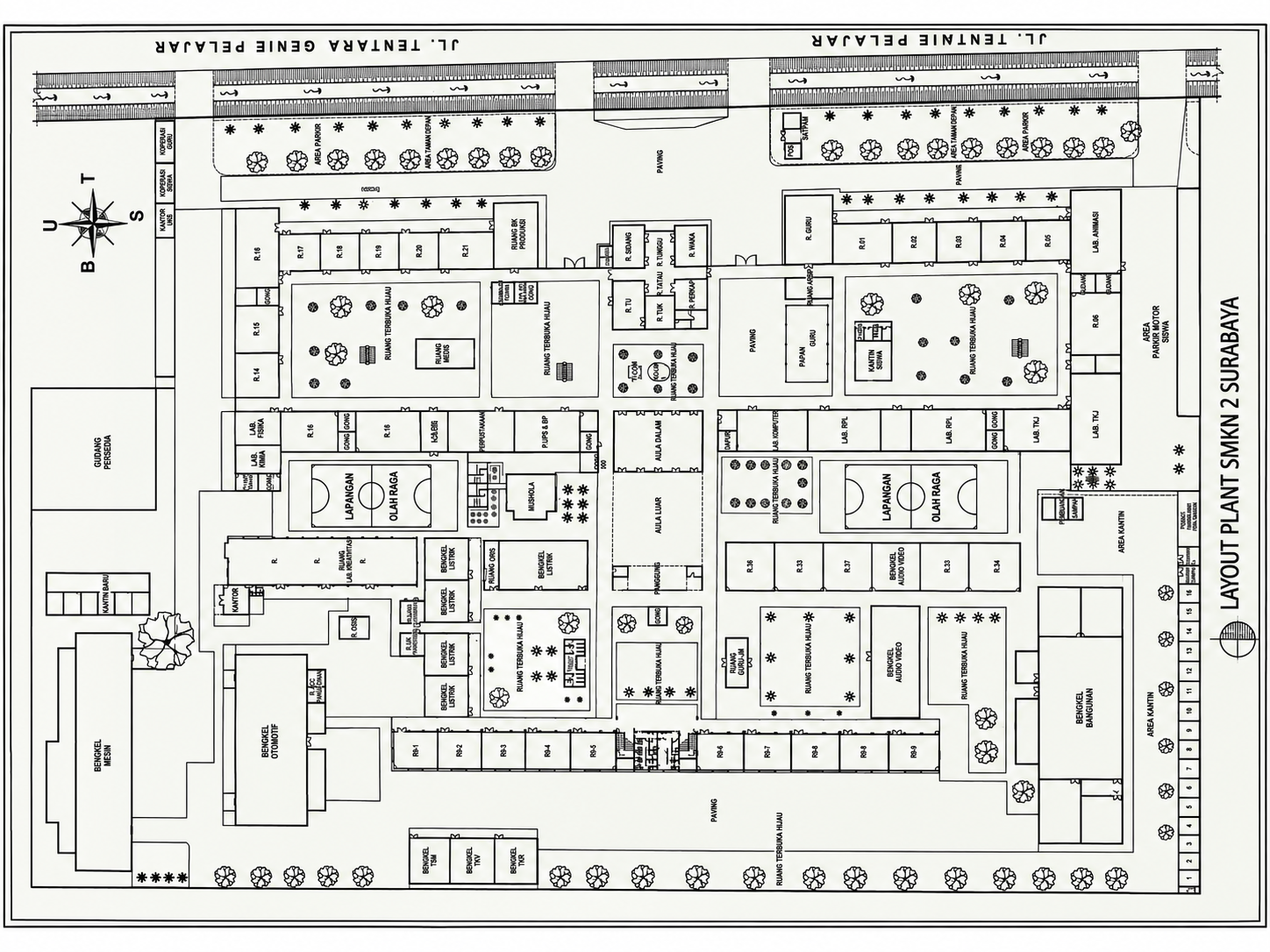
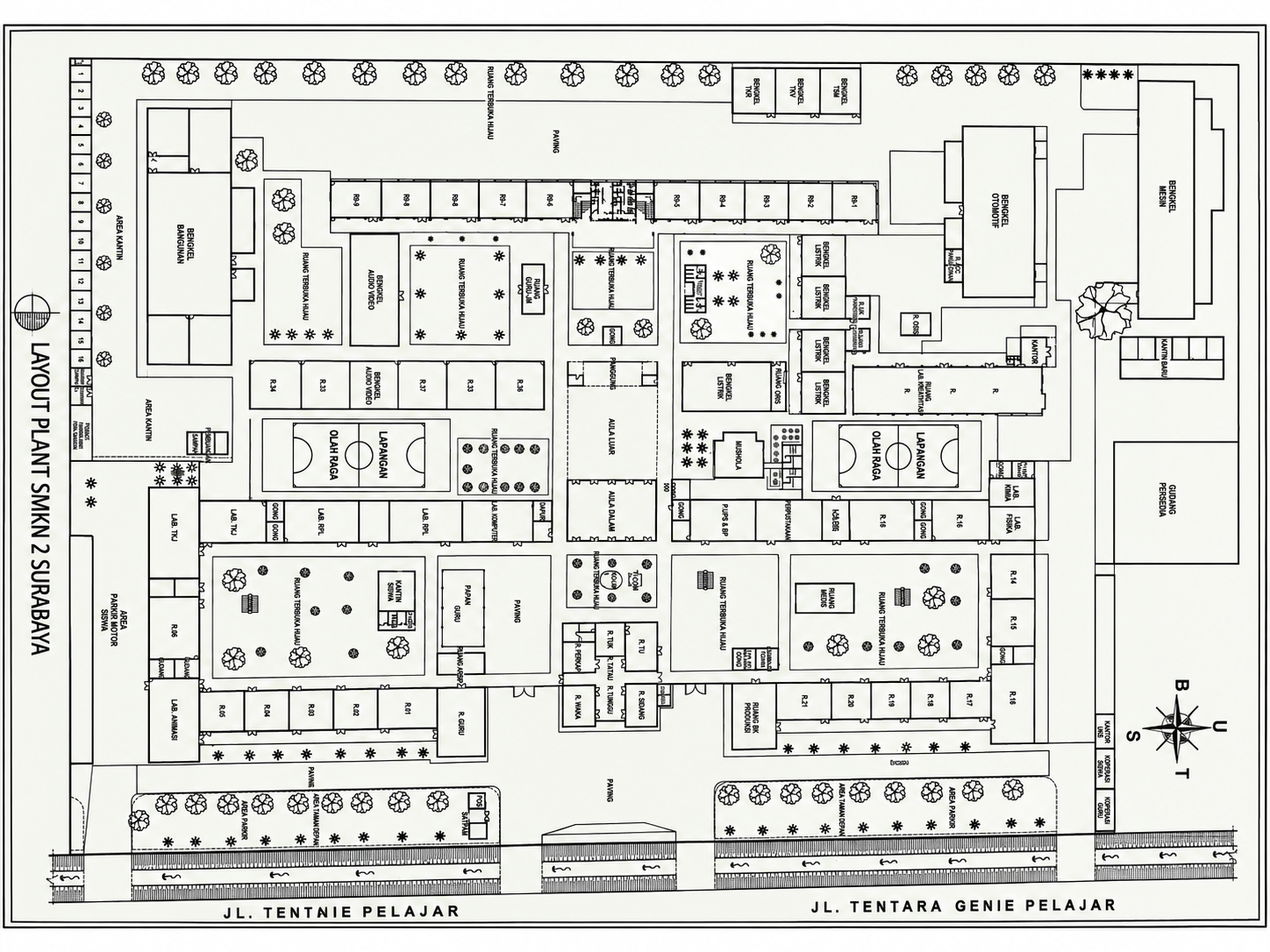
fix(map): rotate blueprint 90 deg clockwise so front gate and Jl Tentara Genie are at the bottom

diff --git a/src/data/campus-map.ts b/src/data/campus-map.ts
@@ -29,125 +29,125 @@ const room = (id: string, name: string, category: Category, x: number, z: number
   note,
 });
 
-// Koordinat piksel denah landscape 1448 x 1086 px (diputar horizontal agar tulisan terbaca tegak alami).
+// Koordinat piksel denah landscape 1448 x 1086 px (diputar 90 derajat searah jarum jam agar jalan utama Jl. Tentara Genie Pelajar berada di bawah).
 export const rooms: MapRoom[] = [
-  room('bengkel-mesin', 'Bengkel Mesin', 'bengkel', 69, 722, 90, 272, 'Utara Barat', 'Fasilitas manufaktur mesin CNC, bubut, dan milling'),
-  room('kantin-baru', 'Kantin Baru (Utara)', 'fasilitas', 52, 652, 126, 50, 'Utara', 'Kantin sehat sisi utara sekolah'),
-  room('gudang-utara', 'Gudang Persediaan', 'fasilitas', 34, 443, 142, 100, 'Utara Tengah', 'Gudang logistik dan material kejuruan'),
-  room('bengkel-otomotif', 'Bengkel Otomotif', 'bengkel', 271, 737, 95, 206, 'Barat Laut', 'Workshop servis mobil, spooring, & engine tune up'),
-  room('r-acc-cat', 'R. Pengecatan (Otomotif)', 'bengkel', 367, 762, 25, 40, 'Barat Laut', 'Ruang oven cat semprot & bodi kendaraan'),
-  room('kantor-bengkel', 'Kantor Otomotif', 'administrasi', 255, 668, 42, 46, 'Barat Laut', 'Ruang instruktur dan administrasi kejuruan'),
-  room('osis-utara', 'R. OSIS (Utara)', 'ekstra', 407, 701, 30, 28, 'Barat Tengah', 'Sekretariat organisasi kesiswaan'),
-  room('lab-kreativitas', 'Ruang Lab. Kreativitas', 'lab', 394, 612, 44, 56, 'Tengah Barat Laut', 'Ruang inkubasi riset dan karya siswa'),
-  room('uks-barat', 'R. UKS Barat', 'fasilitas', 468, 722, 25, 28, 'Barat Tengah', 'Pos pertolongan pertama & kesehatan'),
-  room('bk-barat', 'R. BK Barat', 'fasilitas', 468, 685, 25, 29, 'Barat Tengah', 'Ruang bimbingan konseling'),
-  room('bengkel-listrik-1', 'Bengkel Listrik 1', 'bengkel', 493, 771, 58, 48, 'Barat', 'Instalasi penerangan & tenaga listrik'),
-  room('bengkel-listrik-2', 'Bengkel Listrik 2', 'bengkel', 493, 722, 58, 49, 'Barat', 'Pembangkit & panel distribusi tegangan rendah'),
-  room('bengkel-listrik-3', 'Bengkel Listrik 3', 'bengkel', 493, 661, 58, 50, 'Barat', 'Pengukuran listrik & kalibrasi instrumentasi'),
-  room('bengkel-listrik-4', 'Bengkel Listrik 4', 'bengkel', 493, 613, 58, 48, 'Barat', 'Otomasi industri & sistem kendali motor'),
-  room('rth-barat-laut', 'Taman Bengkel Listrik', 'taman', 569, 695, 125, 117, 'Barat', 'Ruang Terbuka Hijau & Gazebo santai'),
-  room('osis-selatan', 'R. ORIS', 'ekstra', 565, 616, 17, 59, 'Barat Tengah', 'Ruang kegiatan siswa'),
-  room('bengkel-listrik-selatan', 'Bengkel Otomasi & PLC', 'bengkel', 582, 616, 107, 59, 'Barat Tengah', 'Laboratorium PLC, SCADA, & mikrokontroler'),
-  room('bengkel-tsm', 'Bengkel TSM (Sepeda Motor)', 'bengkel', 515, 956, 48, 54, 'Sisi Barat', 'Kelas industri dealer resmi Honda & Yamaha'),
-  room('bengkel-tkv', 'Bengkel TKV', 'bengkel', 563, 956, 53, 54, 'Sisi Barat', 'Praktik kendaraan vokasi'),
-  room('bengkel-tkr', 'Bengkel TKR (Mobil)', 'bengkel', 616, 956, 54, 54, 'Sisi Barat', 'Kelas industri perbaikan kendaraan ringan'),
-  room('r9-1', 'R9-1', 'kelas', 490, 835, 49, 45, 'Sayap Barat R9', 'Ruang kelas teori'),
-  room('r9-2', 'R9-2', 'kelas', 539, 835, 51, 45, 'Sayap Barat R9', 'Ruang kelas teori'),
-  room('r9-3', 'R9-3', 'kelas', 590, 835, 54, 45, 'Sayap Barat R9', 'Ruang kelas teori'),
-  room('r9-4', 'R9-4', 'kelas', 644, 835, 53, 45, 'Sayap Barat R9', 'Ruang kelas teori'),
-  room('r9-5', 'R9-5', 'kelas', 697, 835, 27, 45, 'Sayap Barat R9', 'Ruang kelas teori'),
-  room('toilet-r9', 'Toilet Sayap Barat', 'toilet', 724, 833, 92, 48, 'Sayap Barat R9', 'Fasilitas sanitasi toilet siswa'),
-  room('r9-6', 'R9-6', 'kelas', 818, 833, 52, 48, 'Sayap Barat R9', 'Ruang kelas teori'),
-  room('r9-7', 'R9-7', 'kelas', 890, 833, 52, 48, 'Sayap Barat R9', 'Ruang kelas teori'),
-  room('r9-8a', 'R9-8 (Atas)', 'kelas', 961, 833, 52, 48, 'Sayap Barat R9', 'Ruang kelas teori'),
-  room('r9-8b', 'R9-8 (Bawah)', 'kelas', 1032, 833, 52, 48, 'Sayap Barat R9', 'Ruang kelas teori'),
-  room('r9-9', 'R9-9', 'kelas', 1104, 833, 52, 48, 'Sayap Barat R9', 'Ruang kelas teori'),
-  room('bengkel-bangunan', 'Bengkel Bangunan (TKP/DPIB)', 'bengkel', 1154, 666, 120, 305, 'Barat Daya', 'Workshop konstruksi kayu, batu, beton, & ukur tanah'),
-  room('bengkel-av-tengah', 'Bengkel Audio Video 1', 'bengkel', 979, 691, 50, 130, 'Tengah Barat', 'Praktik sistem akustik & elektronika analog'),
-  room('bengkel-av-timur', 'Bengkel Audio Video 2', 'bengkel', 991, 618, 52, 56, 'Tengah Barat', 'Praktik pemancar & studio elektronika digital'),
-  room('guru-jm', 'Ruang Guru Kejuruan JM', 'administrasi', 819, 728, 28, 58, 'Tengah Barat', 'Ruang kerja guru produktif'),
-  room('kios-kantin-selatan', 'Deretan Kios Kantin (1-16)', 'fasilitas', 1374, 668, 35, 296, 'Batas Selatan', 'Kantin aneka kuliner sehat siswa'),
-  room('toilet-kantin-selatan', 'Toilet & Sanitasi Kantin', 'toilet', 1374, 624, 35, 44, 'Batas Selatan', 'Wastafel dan toilet kantin'),
-  room('tps-sekolah', 'Tempat Pengolahan Sampah (TPS)', 'fasilitas', 1170, 560, 42, 36, 'Selatan', 'Fasilitas pemilahan sampah ramah lingkungan'),
-  room('rth-barat-selatan', 'Jalur Hijau Perimeter Barat', 'taman', 724, 973, 550, 75, 'Batas Barat', 'Area sabuk hijau peneduh sekolah'),
-  room('taman-tengah-selatan', 'Taman Inner Court Selatan', 'taman', 861, 692, 105, 116, 'Tengah Selatan', 'Taman terbuka dan area santai siswa'),
-  room('r36', 'R. 36', 'kelas', 819, 618, 55, 56, 'Tengah Selatan', 'Ruang kelas teori'),
-  room('r33-atas', 'R. 33 (Atas)', 'kelas', 877, 618, 53, 56, 'Tengah Selatan', 'Ruang kelas teori'),
-  room('r37', 'R. 37', 'kelas', 934, 618, 53, 56, 'Tengah Selatan', 'Ruang kelas teori'),
-  room('r33-bawah', 'R. 33 (Bawah)', 'kelas', 1047, 618, 53, 56, 'Tengah Selatan', 'Ruang kelas teori'),
-  room('r34', 'R. 34', 'kelas', 1104, 618, 55, 56, 'Tengah Selatan', 'Ruang kelas teori'),
-  room('panggung-aula', 'Panggung Aula', 'fasilitas', 724, 644, 75, 30, 'Pusat Kampus', 'Panggung pementasan seni & upacara akbar'),
-  room('aula-luar', 'Aula Luar (Joglo)', 'fasilitas', 724, 543, 75, 98, 'Pusat Kampus', 'Aula semi-terbuka beratap joglo tradisional'),
-  room('aula-dalam', 'Aula Dalam Serbaguna', 'fasilitas', 724, 468, 78, 72, 'Pusat Kampus', 'Gedung pertemuan utama tertutup & ber-AC'),
-  room('mushola-utama', 'Mushola Sekolah', 'fasilitas', 601, 548, 53, 45, 'Pusat Tengah', 'Fasilitas ibadah berjamaah warga sekolah'),
-  room('toilet-mushola', 'Toilet & Wudhu Mushola', 'toilet', 548, 543, 37, 58, 'Pusat Tengah', 'Tempat wudhu dan sanitasi mushola'),
-  room('perpustakaan', 'Perpustakaan SMEKDA', 'fasilitas', 524, 471, 49, 45, 'Pusat Tengah', 'Pusat literasi digital dan buku referensi'),
-  room('r-ups-bp', 'R. UPS & BP', 'administrasi', 573, 471, 78, 45, 'Pusat Tengah', 'Bimbingan penyuluhan dan panel UPS pusat'),
-  room('lapangan-utara', 'Lapangan Olahraga Utara', 'lapangan', 476, 543, 159, 61, 'Pusat Tengah Utara', 'Lapangan basket, voli, dan upacara utara'),
-  room('lapangan-selatan', 'Lapangan Olahraga Selatan', 'lapangan', 929, 543, 222, 65, 'Pusat Tengah Selatan', 'Lapangan futsal & aktivitas jasmani siswa'),
-  room('lab-kimia', 'Lab. Kimia', 'lab', 260, 508, 51, 33, 'Tengah Utara', 'Laboratorium praktikum sains kimia'),
-  room('lab-fisika', 'Lab. Fisika', 'lab', 260, 470, 51, 38, 'Tengah Utara', 'Laboratorium praktikum sains fisika'),
-  room('r14', 'R. 14', 'kelas', 260, 403, 51, 52, 'Koridor Utara', 'Ruang kelas teori'),
-  room('r15', 'R. 15', 'kelas', 260, 350, 51, 53, 'Koridor Utara', 'Ruang kelas teori'),
-  room('r16-atas', 'R. 16 (Utara)', 'kelas', 260, 239, 51, 90, 'Koridor Utara', 'Ruang kelas teori'),
-  room('rth-utara', 'Taman Asri Tengah Utara', 'taman', 325, 323, 215, 132, 'Tengah Utara', 'Inner courtyard dengan vegetasi peneduh'),
-  room('ruang-medis', 'Ruang Medis Taman', 'fasilitas', 465, 386, 65, 35, 'Tengah Utara', 'Paviliun medis & istirahat siswa'),
-  room('r17', 'R. 17', 'kelas', 318, 261, 47, 50, 'Sayap Timur', 'Ruang kelas teori'),
-  room('r18', 'R. 18', 'kelas', 365, 261, 46, 50, 'Sayap Timur', 'Ruang kelas teori'),
-  room('r19', 'R. 19', 'kelas', 411, 261, 46, 50, 'Sayap Timur', 'Ruang kelas teori'),
-  room('r20', 'R. 20', 'kelas', 457, 261, 46, 50, 'Sayap Timur', 'Ruang kelas teori'),
-  room('r21', 'R. 21', 'kelas', 503, 261, 47, 50, 'Sayap Timur', 'Ruang kelas teori'),
-  room('bk-produksi', 'Ruang BK Produksi', 'administrasi', 552, 231, 61, 76, 'Sayap Timur', 'Layanan bimbingan karir & unit produksi'),
-  room('uks-pusat', 'Kantor UKS Pusat', 'fasilitas', 176, 238, 23, 35, 'Timur Laut', 'Pelayanan kesehatan siswa'),
-  room('koperasi-siswa', 'Koperasi Siswa', 'fasilitas', 176, 188, 23, 47, 'Timur Laut', 'Penyedia perlengkapan dan seragam'),
-  room('koperasi-guru', 'Koperasi Guru', 'fasilitas', 176, 137, 23, 49, 'Timur Laut', 'Koperasi simpan pinjam & sembako pegawai'),
-  room('rth-kolam-ticom', 'RTH & Kolam Ikan TI COM', 'taman', 724, 390, 78, 68, 'Pusat Kantor', 'Kolam hias dan taman depan ruang sidang'),
-  room('r-tuk', 'R. TUK (Tempat Uji Kompetensi)', 'administrasi', 724, 338, 43, 40, 'Pusat Kantor', 'Tempat asesmen profesi LSP-P1 BNSP'),
-  room('r-tu', 'R. Tata Usaha (TU)', 'administrasi', 724, 306, 43, 32, 'Pusat Kantor', 'Pusat pelayanan administrasi & persuratan'),
-  room('r-tunggu', 'R. Tunggu Pimpinan', 'administrasi', 724, 258, 43, 48, 'Pusat Kantor', 'Lobi tamu dinas & pimpinan'),
-  room('r-perkap', 'R. Perlengkapan', 'administrasi', 767, 318, 40, 38, 'Pusat Kantor', 'Gudang perlengkapan & inventaris kantor'),
-  room('r-waka', 'R. Pimpinan & Waka', 'administrasi', 767, 258, 40, 48, 'Pusat Kantor', 'Ruang kerja Kepala Sekolah & Wakil Kepala Sekolah'),
-  room('dapur-sekolah', 'Dapur Utama', 'fasilitas', 816, 468, 25, 48, 'Tengah Tenggara', 'Penyedia konsumsi dan kegiatan sekolah'),
-  room('lab-komputer', 'Lab. Komputer Dasar', 'lab', 849, 468, 95, 48, 'Tengah Tenggara', 'Praktik literasi komputer & asesmen nasional'),
-  room('lab-rpl-1', 'Lab. RPL 1 (Software Engineering)', 'lab', 952, 468, 115, 48, 'Tengah Tenggara', 'Laboratorium rekayasa perangkat lunak'),
-  room('lab-rpl-2', 'Lab. RPL 2 (Web & Mobile Dev)', 'lab', 1074, 468, 125, 48, 'Tengah Tenggara', 'Laboratorium pengembangan web & Android'),
-  room('ruang-gong', 'Studio Karawitan & Gamelan', 'ekstra', 1201, 468, 24, 48, 'Tengah Tenggara', 'Latihan musik tradisional gamelan'),
-  room('lab-tkj-1', 'Lab. Jaringan Komputer TKJ', 'lab', 1227, 468, 80, 48, 'Tengah Tenggara', 'Praktik mikrotik, cisco router, & server'),
-  room('papan-guru', 'Papan Guru & Diskusi', 'administrasi', 892, 346, 50, 92, 'Tenggara', 'Area diskusi guru dan ruang arsip'),
-  room('kantin-siswa-tenggara', 'Kantin Siswa Tenggara', 'fasilitas', 969, 363, 48, 75, 'Tenggara', 'Pujasera makan siswa'),
-  room('rth-taman-tenggara', 'Taman Kantin Tenggara', 'taman', 959, 313, 260, 142, 'Tenggara', 'Taman rimbun tempat istirahat siswa'),
-  room('r-guru-utama', 'Ruang Guru Utama', 'administrasi', 889, 223, 55, 80, 'Sayap Timur Depan', 'Ruang kerja bersama seluruh dewan guru'),
-  room('r01', 'R. 01', 'kelas', 944, 255, 65, 48, 'Sayap Timur Depan', 'Ruang kelas teori'),
-  room('r02', 'R. 02', 'kelas', 1009, 255, 55, 48, 'Sayap Timur Depan', 'Ruang kelas teori'),
-  room('r03', 'R. 03', 'kelas', 1064, 255, 55, 48, 'Sayap Timur Depan', 'Ruang kelas teori'),
-  room('r04', 'R. 04', 'kelas', 1119, 255, 55, 48, 'Sayap Timur Depan', 'Ruang kelas teori'),
-  room('r05', 'R. 05', 'kelas', 1174, 255, 50, 48, 'Sayap Timur Depan', 'Ruang kelas teori'),
-  room('lab-tkj-selatan', 'Lab. Fiber Optic TKJ', 'lab', 1224, 426, 55, 105, 'Selatan Depan', 'Praktik penyambungan fiber optic'),
-  room('r06', 'R. 06', 'kelas', 1224, 335, 55, 70, 'Selatan Depan', 'Ruang kelas teori'),
-  room('gudang-selatan', 'Gudang Inventaris Selatan', 'fasilitas', 1224, 312, 55, 23, 'Selatan Depan', 'Penyimpanan peralatan dan inventaris'),
-  room('lab-animasi', 'Studio & Lab. Animasi 2D/3D', 'lab', 1224, 217, 55, 95, 'Sudut Tenggara Depan', 'Studio animasi, render farm, & drawing tablet'),
-  room('pos-satpam-utama', 'Pos Satpam Gerbang Depan', 'administrasi', 874, 133, 40, 62, 'Gerbang Depan', 'Pos penjagaan & keamanan utama sekolah'),
-  room('parkir-depan', 'Area Parkir Mobil & Tamu', 'parkir', 1124, 125, 160, 70, 'Depan Timur', 'Tempat parkir kendaraan roda empat & tamu dinas'),
-  room('taman-depan-timur', 'Area Taman Depan (Frontage)', 'taman', 924, 125, 200, 70, 'Depan Timur', 'Jalur hijau pembatas Jl. Tentara Genie Pelajar'),
-  room('parkir-motor-siswa', 'Area Parkir Motor Siswa', 'parkir', 1284, 218, 70, 260, 'Batas Tenggara', 'Lahan parkir tertib kendaraan roda dua siswa'),
+  room('bengkel-mesin', 'Bengkel Mesin', 'bengkel', 1289, 92, 90, 272, 'Utara Barat', 'Fasilitas manufaktur mesin CNC, bubut, dan milling'),
+  room('kantin-baru', 'Kantin Baru (Utara)', 'fasilitas', 1270, 384, 126, 50, 'Utara', 'Kantin sehat sisi utara sekolah'),
+  room('gudang-utara', 'Gudang Persediaan', 'fasilitas', 1272, 543, 142, 100, 'Utara Tengah', 'Gudang logistik dan material kejuruan'),
+  room('bengkel-otomotif', 'Bengkel Otomotif', 'bengkel', 1082, 143, 95, 206, 'Barat Laut', 'Workshop servis mobil, spooring, & engine tune up'),
+  room('r-acc-cat', 'R. Pengecatan (Otomotif)', 'bengkel', 1056, 284, 25, 40, 'Barat Laut', 'Ruang oven cat semprot & bodi kendaraan'),
+  room('kantor-bengkel', 'Kantor Otomotif', 'administrasi', 1151, 372, 42, 46, 'Barat Laut', 'Ruang instruktur dan administrasi kejuruan'),
+  room('osis-utara', 'R. OSIS (Utara)', 'ekstra', 1011, 357, 30, 28, 'Barat Tengah', 'Sekretariat organisasi kesiswaan'),
+  room('lab-kreativitas', 'Ruang Lab. Kreativitas', 'lab', 1010, 418, 44, 56, 'Tengah Barat Laut', 'Ruang inkubasi riset dan karya siswa'),
+  room('uks-barat', 'R. UKS Barat', 'fasilitas', 955, 336, 25, 28, 'Barat Tengah', 'Pos pertolongan pertama & kesehatan'),
+  room('bk-barat', 'R. BK Barat', 'fasilitas', 955, 372, 25, 29, 'Barat Tengah', 'Ruang bimbingan konseling'),
+  room('bengkel-listrik-1', 'Bengkel Listrik 1', 'bengkel', 897, 267, 58, 48, 'Barat', 'Instalasi penerangan & tenaga listrik'),
+  room('bengkel-listrik-2', 'Bengkel Listrik 2', 'bengkel', 897, 315, 58, 49, 'Barat', 'Pembangkit & panel distribusi tegangan rendah'),
+  room('bengkel-listrik-3', 'Bengkel Listrik 3', 'bengkel', 897, 375, 58, 50, 'Barat', 'Pengukuran listrik & kalibrasi instrumentasi'),
+  room('bengkel-listrik-4', 'Bengkel Listrik 4', 'bengkel', 897, 425, 58, 48, 'Barat', 'Otomasi industri & sistem kendali motor'),
+  room('rth-barat-laut', 'Taman Bengkel Listrik', 'taman', 754, 274, 125, 117, 'Barat', 'Ruang Terbuka Hijau & Gazebo santai'),
+  room('osis-selatan', 'R. ORIS', 'ekstra', 866, 411, 17, 59, 'Barat Tengah', 'Ruang kegiatan siswa'),
+  room('bengkel-listrik-selatan', 'Bengkel Otomasi & PLC', 'bengkel', 759, 411, 107, 59, 'Barat Tengah', 'Laboratorium PLC, SCADA, & mikrokontroler'),
+  room('bengkel-tsm', 'Bengkel TSM (Sepeda Motor)', 'bengkel', 885, 76, 48, 54, 'Sisi Barat', 'Kelas industri dealer resmi Honda & Yamaha'),
+  room('bengkel-tkv', 'Bengkel TKV', 'bengkel', 832, 76, 53, 54, 'Sisi Barat', 'Praktik kendaraan vokasi'),
+  room('bengkel-tkr', 'Bengkel TKR (Mobil)', 'bengkel', 778, 76, 54, 54, 'Sisi Barat', 'Kelas industri perbaikan kendaraan ringan'),
+  room('r9-1', 'R9-1', 'kelas', 909, 206, 49, 45, 'Sayap Barat R9', 'Ruang kelas teori'),
+  room('r9-2', 'R9-2', 'kelas', 858, 206, 51, 45, 'Sayap Barat R9', 'Ruang kelas teori'),
+  room('r9-3', 'R9-3', 'kelas', 804, 206, 54, 45, 'Sayap Barat R9', 'Ruang kelas teori'),
+  room('r9-4', 'R9-4', 'kelas', 751, 206, 53, 45, 'Sayap Barat R9', 'Ruang kelas teori'),
+  room('r9-5', 'R9-5', 'kelas', 724, 206, 27, 45, 'Sayap Barat R9', 'Ruang kelas teori'),
+  room('toilet-r9', 'Toilet Sayap Barat', 'toilet', 632, 205, 92, 48, 'Sayap Barat R9', 'Fasilitas sanitasi toilet siswa'),
+  room('r9-6', 'R9-6', 'kelas', 578, 205, 52, 48, 'Sayap Barat R9', 'Ruang kelas teori'),
+  room('r9-7', 'R9-7', 'kelas', 506, 205, 52, 48, 'Sayap Barat R9', 'Ruang kelas teori'),
+  room('r9-8a', 'R9-8 (Atas)', 'kelas', 435, 205, 52, 48, 'Sayap Barat R9', 'Ruang kelas teori'),
+  room('r9-8b', 'R9-8 (Bawah)', 'kelas', 364, 205, 52, 48, 'Sayap Barat R9', 'Ruang kelas teori'),
+  room('r9-9', 'R9-9', 'kelas', 292, 205, 52, 48, 'Sayap Barat R9', 'Ruang kelas teori'),
+  room('bengkel-bangunan', 'Bengkel Bangunan (TKP/DPIB)', 'bengkel', 174, 115, 120, 305, 'Barat Daya', 'Workshop konstruksi kayu, batu, beton, & ukur tanah'),
+  room('bengkel-av-tengah', 'Bengkel Audio Video 1', 'bengkel', 419, 265, 50, 130, 'Tengah Barat', 'Praktik sistem akustik & elektronika analog'),
+  room('bengkel-av-timur', 'Bengkel Audio Video 2', 'bengkel', 405, 412, 52, 56, 'Tengah Barat', 'Praktik pemancar & studio elektronika digital'),
+  room('guru-jm', 'Ruang Guru Kejuruan JM', 'administrasi', 601, 300, 28, 58, 'Tengah Barat', 'Ruang kerja guru produktif'),
+  room('kios-kantin-selatan', 'Deretan Kios Kantin (1-16)', 'fasilitas', 39, 122, 35, 296, 'Batas Selatan', 'Kantin aneka kuliner sehat siswa'),
+  room('toilet-kantin-selatan', 'Toilet & Sanitasi Kantin', 'toilet', 39, 418, 35, 44, 'Batas Selatan', 'Wastafel dan toilet kantin'),
+  room('tps-sekolah', 'Tempat Pengolahan Sampah (TPS)', 'fasilitas', 236, 490, 42, 36, 'Selatan', 'Fasilitas pemilahan sampah ramah lingkungan'),
+  room('rth-barat-selatan', 'Jalur Hijau Perimeter Barat', 'taman', 174, 38, 550, 75, 'Batas Barat', 'Area sabuk hijau peneduh sekolah'),
+  room('taman-tengah-selatan', 'Taman Inner Court Selatan', 'taman', 482, 278, 105, 116, 'Tengah Selatan', 'Taman terbuka dan area santai siswa'),
+  room('r36', 'R. 36', 'kelas', 574, 412, 55, 56, 'Tengah Selatan', 'Ruang kelas teori'),
+  room('r33-atas', 'R. 33 (Atas)', 'kelas', 518, 412, 53, 56, 'Tengah Selatan', 'Ruang kelas teori'),
+  room('r37', 'R. 37', 'kelas', 461, 412, 53, 56, 'Tengah Selatan', 'Ruang kelas teori'),
+  room('r33-bawah', 'R. 33 (Bawah)', 'kelas', 348, 412, 53, 56, 'Tengah Selatan', 'Ruang kelas teori'),
+  room('r34', 'R. 34', 'kelas', 289, 412, 55, 56, 'Tengah Selatan', 'Ruang kelas teori'),
+  room('panggung-aula', 'Panggung Aula', 'fasilitas', 649, 412, 75, 30, 'Pusat Kampus', 'Panggung pementasan seni & upacara akbar'),
+  room('aula-luar', 'Aula Luar (Joglo)', 'fasilitas', 649, 445, 75, 98, 'Pusat Kampus', 'Aula semi-terbuka beratap joglo tradisional'),
+  room('aula-dalam', 'Aula Dalam Serbaguna', 'fasilitas', 646, 546, 78, 72, 'Pusat Kampus', 'Gedung pertemuan utama tertutup & ber-AC'),
+  room('mushola-utama', 'Mushola Sekolah', 'fasilitas', 794, 493, 53, 45, 'Pusat Tengah', 'Fasilitas ibadah berjamaah warga sekolah'),
+  room('toilet-mushola', 'Toilet & Wudhu Mushola', 'toilet', 863, 485, 37, 58, 'Pusat Tengah', 'Tempat wudhu dan sanitasi mushola'),
+  room('perpustakaan', 'Perpustakaan SMEKDA', 'fasilitas', 875, 570, 49, 45, 'Pusat Tengah', 'Pusat literasi digital dan buku referensi'),
+  room('r-ups-bp', 'R. UPS & BP', 'administrasi', 797, 570, 78, 45, 'Pusat Tengah', 'Bimbingan penyuluhan dan panel UPS pusat'),
+  room('lapangan-utara', 'Lapangan Olahraga Utara', 'lapangan', 813, 482, 159, 61, 'Pusat Tengah Utara', 'Lapangan basket, voli, dan upacara utara'),
+  room('lapangan-selatan', 'Lapangan Olahraga Selatan', 'lapangan', 297, 478, 222, 65, 'Pusat Tengah Selatan', 'Lapangan futsal & aktivitas jasmani siswa'),
+  room('lab-kimia', 'Lab. Kimia', 'lab', 1137, 545, 51, 33, 'Tengah Utara', 'Laboratorium praktikum sains kimia'),
+  room('lab-fisika', 'Lab. Fisika', 'lab', 1137, 578, 51, 38, 'Tengah Utara', 'Laboratorium praktikum sains fisika'),
+  room('r14', 'R. 14', 'kelas', 1137, 631, 51, 52, 'Koridor Utara', 'Ruang kelas teori'),
+  room('r15', 'R. 15', 'kelas', 1137, 683, 51, 53, 'Koridor Utara', 'Ruang kelas teori'),
+  room('r16-atas', 'R. 16 (Utara)', 'kelas', 1137, 757, 51, 90, 'Koridor Utara', 'Ruang kelas teori'),
+  room('rth-utara', 'Taman Asri Tengah Utara', 'taman', 908, 631, 215, 132, 'Tengah Utara', 'Inner courtyard dengan vegetasi peneduh'),
+  room('ruang-medis', 'Ruang Medis Taman', 'fasilitas', 918, 665, 65, 35, 'Tengah Utara', 'Paviliun medis & istirahat siswa'),
+  room('r17', 'R. 17', 'kelas', 1083, 775, 47, 50, 'Sayap Timur', 'Ruang kelas teori'),
+  room('r18', 'R. 18', 'kelas', 1037, 775, 46, 50, 'Sayap Timur', 'Ruang kelas teori'),
+  room('r19', 'R. 19', 'kelas', 991, 775, 46, 50, 'Sayap Timur', 'Ruang kelas teori'),
+  room('r20', 'R. 20', 'kelas', 945, 775, 46, 50, 'Sayap Timur', 'Ruang kelas teori'),
+  room('r21', 'R. 21', 'kelas', 898, 775, 47, 50, 'Sayap Timur', 'Ruang kelas teori'),
+  room('bk-produksi', 'Ruang BK Produksi', 'administrasi', 835, 779, 61, 76, 'Sayap Timur', 'Layanan bimbingan karir & unit produksi'),
+  room('uks-pusat', 'Kantor UKS Pusat', 'fasilitas', 1249, 813, 23, 35, 'Timur Laut', 'Pelayanan kesehatan siswa'),
+  room('koperasi-siswa', 'Koperasi Siswa', 'fasilitas', 1249, 851, 23, 47, 'Timur Laut', 'Penyedia perlengkapan dan seragam'),
+  room('koperasi-guru', 'Koperasi Guru', 'fasilitas', 1249, 900, 23, 49, 'Timur Laut', 'Koperasi simpan pinjam & sembako pegawai'),
+  room('rth-kolam-ticom', 'RTH & Kolam Ikan TI COM', 'taman', 646, 628, 78, 68, 'Pusat Kantor', 'Kolam hias dan taman depan ruang sidang'),
+  room('r-tuk', 'R. TUK (Tempat Uji Kompetensi)', 'administrasi', 681, 708, 43, 40, 'Pusat Kantor', 'Tempat asesmen profesi LSP-P1 BNSP'),
+  room('r-tu', 'R. Tata Usaha (TU)', 'administrasi', 681, 748, 43, 32, 'Pusat Kantor', 'Pusat pelayanan administrasi & persuratan'),
+  room('r-tunggu', 'R. Tunggu Pimpinan', 'administrasi', 681, 780, 43, 48, 'Pusat Kantor', 'Lobi tamu dinas & pimpinan'),
+  room('r-perkap', 'R. Perlengkapan', 'administrasi', 641, 730, 40, 38, 'Pusat Kantor', 'Gudang perlengkapan & inventaris kantor'),
+  room('r-waka', 'R. Pimpinan & Waka', 'administrasi', 641, 780, 40, 48, 'Pusat Kantor', 'Ruang kerja Kepala Sekolah & Wakil Kepala Sekolah'),
+  room('dapur-sekolah', 'Dapur Utama', 'fasilitas', 607, 570, 25, 48, 'Tengah Tenggara', 'Penyedia konsumsi dan kegiatan sekolah'),
+  room('lab-komputer', 'Lab. Komputer Dasar', 'lab', 504, 570, 95, 48, 'Tengah Tenggara', 'Praktik literasi komputer & asesmen nasional'),
+  room('lab-rpl-1', 'Lab. RPL 1 (Software Engineering)', 'lab', 381, 570, 115, 48, 'Tengah Tenggara', 'Laboratorium rekayasa perangkat lunak'),
+  room('lab-rpl-2', 'Lab. RPL 2 (Web & Mobile Dev)', 'lab', 249, 570, 125, 48, 'Tengah Tenggara', 'Laboratorium pengembangan web & Android'),
+  room('ruang-gong', 'Studio Karawitan & Gamelan', 'ekstra', 223, 570, 24, 48, 'Tengah Tenggara', 'Latihan musik tradisional gamelan'),
+  room('lab-tkj-1', 'Lab. Jaringan Komputer TKJ', 'lab', 141, 570, 80, 48, 'Tengah Tenggara', 'Praktik mikrotik, cisco router, & server'),
+  room('papan-guru', 'Papan Guru & Diskusi', 'administrasi', 506, 648, 50, 92, 'Tenggara', 'Area diskusi guru dan ruang arsip'),
+  room('kantin-siswa-tenggara', 'Kantin Siswa Tenggara', 'fasilitas', 431, 648, 48, 75, 'Tenggara', 'Pujasera makan siswa'),
+  room('rth-taman-tenggara', 'Taman Kantin Tenggara', 'taman', 229, 631, 260, 142, 'Tenggara', 'Taman rimbun tempat istirahat siswa'),
+  room('r-guru-utama', 'Ruang Guru Utama', 'administrasi', 504, 783, 55, 80, 'Sayap Timur Depan', 'Ruang kerja bersama seluruh dewan guru'),
+  room('r01', 'R. 01', 'kelas', 439, 783, 65, 48, 'Sayap Timur Depan', 'Ruang kelas teori'),
+  room('r02', 'R. 02', 'kelas', 384, 783, 55, 48, 'Sayap Timur Depan', 'Ruang kelas teori'),
+  room('r03', 'R. 03', 'kelas', 329, 783, 55, 48, 'Sayap Timur Depan', 'Ruang kelas teori'),
+  room('r04', 'R. 04', 'kelas', 274, 783, 55, 48, 'Sayap Timur Depan', 'Ruang kelas teori'),
+  room('r05', 'R. 05', 'kelas', 224, 783, 50, 48, 'Sayap Timur Depan', 'Ruang kelas teori'),
+  room('lab-tkj-selatan', 'Lab. Fiber Optic TKJ', 'lab', 169, 555, 55, 105, 'Selatan Depan', 'Praktik penyambungan fiber optic'),
+  room('r06', 'R. 06', 'kelas', 169, 681, 55, 70, 'Selatan Depan', 'Ruang kelas teori'),
+  room('gudang-selatan', 'Gudang Inventaris Selatan', 'fasilitas', 169, 751, 55, 23, 'Selatan Depan', 'Penyimpanan peralatan dan inventaris'),
+  room('lab-animasi', 'Studio & Lab. Animasi 2D/3D', 'lab', 169, 774, 55, 95, 'Sudut Tenggara Depan', 'Studio animasi, render farm, & drawing tablet'),
+  room('pos-satpam-utama', 'Pos Satpam Gerbang Depan', 'administrasi', 534, 891, 40, 62, 'Gerbang Depan', 'Pos penjagaan & keamanan utama sekolah'),
+  room('parkir-depan', 'Area Parkir Mobil & Tamu', 'parkir', 164, 891, 160, 70, 'Depan Timur', 'Tempat parkir kendaraan roda empat & tamu dinas'),
+  room('taman-depan-timur', 'Area Taman Depan (Frontage)', 'taman', 324, 891, 200, 70, 'Depan Timur', 'Jalur hijau pembatas Jl. Tentara Genie Pelajar'),
+  room('parkir-motor-siswa', 'Area Parkir Motor Siswa', 'parkir', 94, 608, 70, 260, 'Batas Tenggara', 'Lahan parkir tertib kendaraan roda dua siswa'),
 ];
 
 export const hallRoof = [
-  { x: 763, z: 554.5, w: 88, d: 185, base: 31, rise: 16, topW: 45, topD: 110 },
-  { x: 761.5, z: 592, w: 82, d: 105, base: 47, rise: 28, topW: 35, topD: 45 },
-  { x: 761.5, z: 592, w: 42, d: 50, base: 75, rise: 18, topW: 8, topD: 8 },
+  { x: 685, z: 531.5, w: 88, d: 185, base: 31, rise: 16, topW: 45, topD: 110 },
+  { x: 686.5, z: 494, w: 82, d: 105, base: 47, rise: 28, topW: 35, topD: 45 },
+  { x: 686.5, z: 494, w: 42, d: 50, base: 75, rise: 18, topW: 8, topD: 8 },
 ] as const;
 
 export const paths = [
-  [850, 1086 - 880 - 45, 450, 45],
-  [720, 1086 - 110 - 85, 430, 85],
-  [1330, 1086 - 110 - 780, 40, 780],
-  [250, 1086 - 470 - 30, 470, 30],
-  [720, 1086 - 470 - 30, 480, 30],
-  [800, 1086 - 535 - 350, 30, 350],
-  [715, 1086 - 535 - 350, 25, 350],
-  [250, 1086 - 620 - 250, 25, 250],
-  [520, 1086 - 620 - 250, 25, 250],
+  [1448 - 850 - 450, 880, 450, 45],
+  [1448 - 720 - 430, 110, 430, 85],
+  [1448 - 1330 - 40, 110, 40, 780],
+  [1448 - 250 - 470, 470, 470, 30],
+  [1448 - 720 - 480, 470, 480, 30],
+  [1448 - 800 - 30, 535, 30, 350],
+  [1448 - 715 - 25, 535, 25, 350],
+  [1448 - 250 - 25, 620, 25, 250],
+  [1448 - 520 - 25, 620, 25, 250],
 ] as const;
 
 export function searchRooms(query: string, category: Category | 'all' = 'all'): MapRoom[] {

diff --git a/src/features/campus-map/renderer.ts b/src/features/campus-map/renderer.ts
@@ -83,7 +83,7 @@ export function createMap(host: HTMLElement, onSelect: (id: string) => void, onL
     roof.position.set(x-centerX,base,z-centerZ);roofGroup.add(roof);
   }
   // Open-sided aula: schematic posts support the shared roof, not solid walls.
-  for(const x of [730,762,792]) for(const z of [551,636]) {
+  for(const x of [656,686,718]) for(const z of [450,535]) {
     const post=box(x,z,5,5,28,'#64594e',3);
     roofGroup.attach(post);
   }
